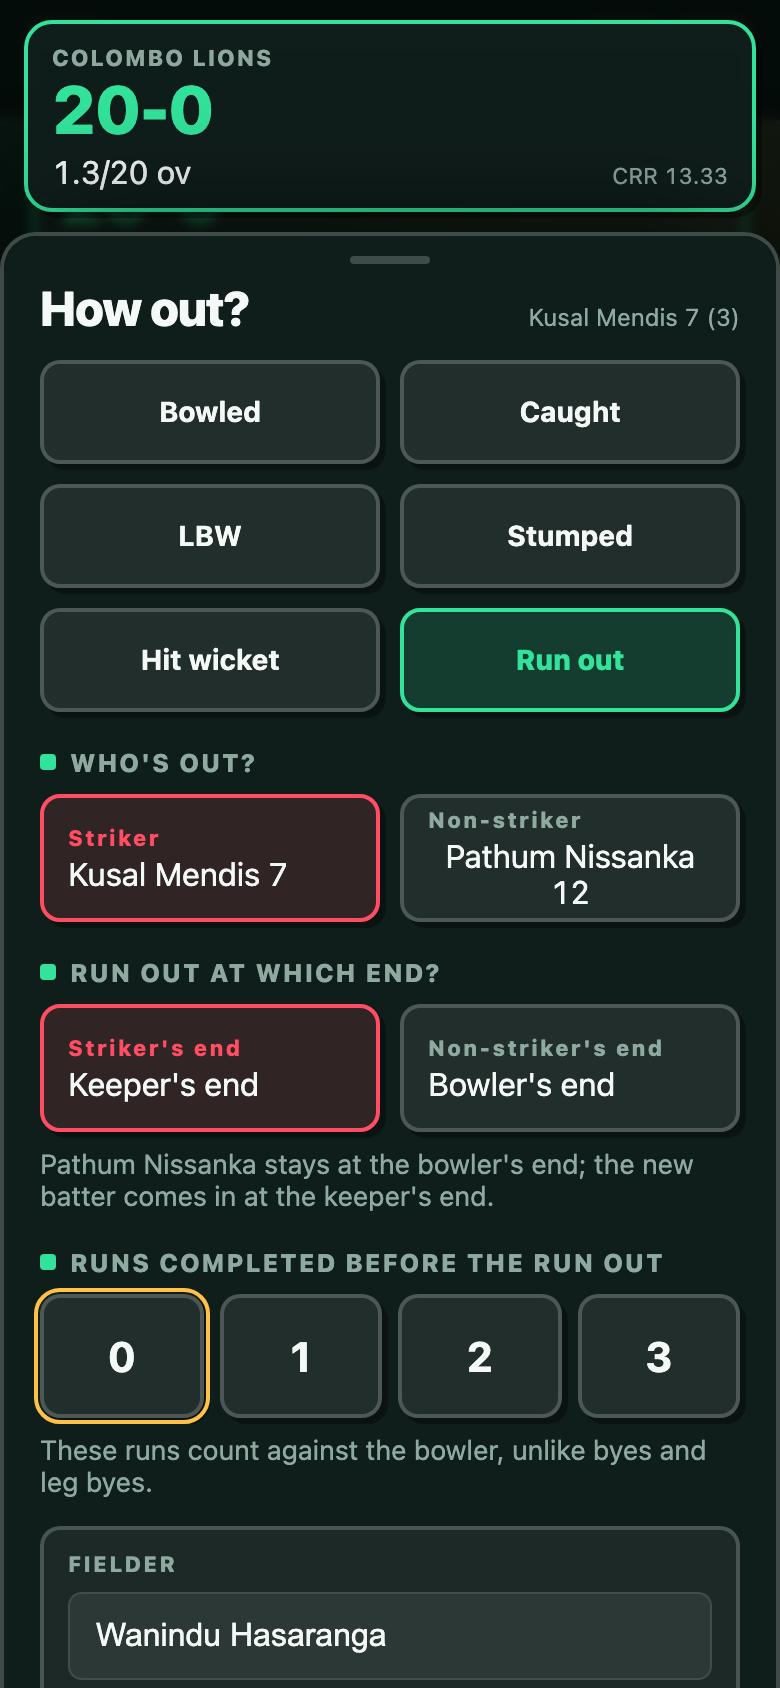
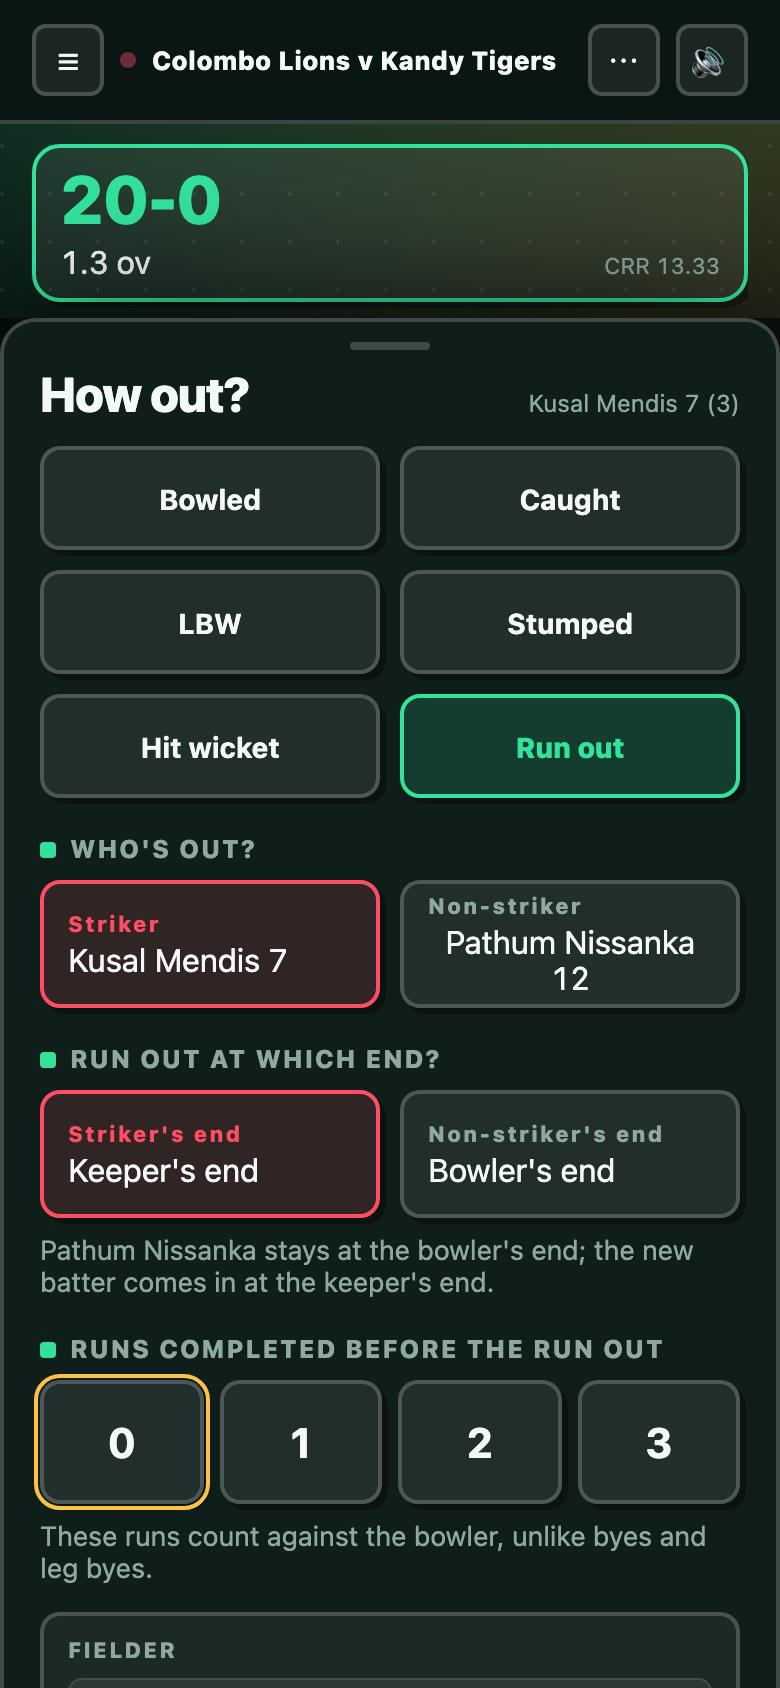
Show the live board's own score above the pick/wicket sheets
The scrim starts below the real score tiles (measured), with no blur, and
the sheet fits in the space below; the banner copy is only a fallback.
Tutorial text and screenshots updated.

diff --git a/tutorial.html b/tutorial.html
@@ -234,7 +234,7 @@
           <li><b>Caught</b> — add the fielder's name (credits the catch), then <span class="ui">Confirm wicket</span>.</li>
           <li><b>Run out</b> — pick <i>who's out</i> (striker or non-striker), <i>at which end</i>, and the <i>runs completed</i> before it, then confirm.</li>
         </ul>
-        <div class="tip"><b>Tip</b>The sheets show the current score in a banner at the top, so you never lose track.</div>
+        <div class="tip"><b>Tip</b>The scoreboard stays visible above these sheets, so you never lose track of the score.</div>
       </div>
       <div class="shots">
         <figure><a class="phone" href="tutorial/img/10-wicket-caught.jpg"><img src="tutorial/img/10-wicket-caught.jpg" alt="Caught with fielder" width="390" height="844" loading="lazy"></a><figcaption>Caught — with the fielder</figcaption></figure>
@@ -253,7 +253,7 @@
         <p>Need a moment? Tap <span class="ui">Pick later</span> — or <b>drag the sheet down</b> — to look at the scorecard or menu first. A <span class="ui">+ Pick batsman</span> chip waits in the empty slot, and tapping any run button brings the sheet back.</p>
       </div>
       <div class="shots">
-        <figure><a class="phone" href="tutorial/img/12-new-batsman.jpg"><img src="tutorial/img/12-new-batsman.jpg" alt="New batsman sheet" width="390" height="844" loading="lazy"></a><figcaption>New batter, with the score banner</figcaption></figure>
+        <figure><a class="phone" href="tutorial/img/12-new-batsman.jpg"><img src="tutorial/img/12-new-batsman.jpg" alt="New batsman sheet" width="390" height="844" loading="lazy"></a><figcaption>New batter, the scoreboard still showing</figcaption></figure>
         <figure><a class="phone" href="tutorial/img/14-new-bowler.jpg"><img src="tutorial/img/14-new-bowler.jpg" alt="New bowler sheet" width="390" height="844" loading="lazy"></a><figcaption>Next bowler</figcaption></figure>
       </div>
     </div>

diff --git a/css/app.css b/css/app.css
@@ -249,7 +249,7 @@ td.status{color:var(--muted);font-size:.78rem;}
 .modal{ overscroll-behavior:contain; transition:transform .22s cubic-bezier(.16,1,.3,1); }
 .modal.dragging{ transition:none; user-select:none; }
 .modal.drag-out{ transition:transform .16s ease-in; }
-.modal-backdrop[style*="--drag"]{ background:rgba(2,6,5,calc(.65 * (1 - var(--drag)))); }
+.modal-backdrop[style*="--drag"]:not(.board-through){ background:rgba(2,6,5,calc(.65 * (1 - var(--drag)))); }
 .modal::before{
   content:"";position:absolute;top:10px;left:50%;transform:translateX(-50%);
   width:40px;height:4px;border-radius:4px;background:var(--line-strong);
@@ -306,6 +306,14 @@ button.primary.danger-confirm{background:var(--wicket);color:var(--bg);border-co
    shrinks (and scrolls) when both don't fit. */
 .modal-backdrop.with-score{ flex-direction:column; align-items:center; justify-content:space-between; }
 .modal-backdrop.with-score > .modal{ flex-shrink:1; min-height:0; }
+/* Board shown through (showBoardAboveSheet in render.js): the real score
+   tiles stay visible above the sheet, so the banner copy isn't needed. */
+.modal-backdrop.with-score.board-through{
+  justify-content:flex-end; -webkit-backdrop-filter:none; backdrop-filter:none;
+  background:linear-gradient(to bottom, transparent 0, transparent var(--board-h), rgba(2,6,5,.65) var(--board-h));
+}
+.modal-backdrop.board-through > .sheet-score-banner{ display:none; }
+.modal-backdrop.board-through > .modal{ max-height:calc(100dvh - var(--board-h)); }
 .sheet-score-banner{ width:100%; max-width:520px; flex-shrink:0; padding:calc(10px + env(safe-area-inset-top)) 12px 10px; }
 .sheet-score-banner .score-bento{ margin:0; }
 .sheet-score-banner .score-tile{ animation:none; background:var(--panel-solid); }

diff --git a/js/ui/render.js b/js/ui/render.js
@@ -239,6 +239,27 @@ function render(){
     againConfirm.classList.add("no-anim"); againConfirm.scrollTop = confirmTop;
     againConfirm.closest(".modal-backdrop").classList.add("no-anim");
   }
+  showBoardAboveSheet();
   // The DOM was just replaced: put the tapped button's spinner back.
   if (activity.shown || document.querySelector(".is-loading")) applyActivity();
 }
+
+/* The pick/wicket sheets (.modal-backdrop.with-score) leave the live board's
+   own score tiles uncovered instead of repeating them in a banner: the scrim
+   starts just below #app's .score-bento (--board-h, measured -- the live
+   screen is one fixed viewport, so it doesn't move), there's no blur, the
+   sheet is capped to the space below it. The scrim still takes every tap
+   (a tap must never reach the run pad under a sheet). With no board behind
+   the sheet the banner (renderSheetScore) stays as the fallback. */
+function showBoardAboveSheet(){
+  const backdrop = document.querySelector("#modal-root .modal-backdrop.with-score");
+  if (!backdrop) return;
+  const board = document.querySelector("#app .score-bento");
+  const bottom = board ? board.getBoundingClientRect().bottom : 0;
+  if (!board || bottom <= 0 || bottom > window.innerHeight * 0.45){
+    backdrop.classList.remove("board-through"); backdrop.style.removeProperty("--board-h"); return;
+  }
+  backdrop.style.setProperty("--board-h", Math.ceil(bottom + 8) + "px");
+  backdrop.classList.add("board-through");
+}
+window.addEventListener("resize", () => showBoardAboveSheet());

diff --git a/CLAUDE.md b/CLAUDE.md
@@ -429,12 +429,15 @@ the full scorecard is a sheet over it (`renderLiveScorecardModal`,
 `ui.liveScorecard`, opened by the **Full scorecard** button), not an inline
 expansion. Its body is the shared tabbed scorecard (`renderScorecard`, see
 "Scorecards" below). It closes with ✕/Close/Back or when the
-innings ends. The pick and wicket sheets cover the board, so each shows the
-live card's score tiles in a banner at the top of the scrim, above the sheet
-(`renderSheetScore` → `renderScoreBento(match, inn, teamLabel)`, the same
-function the live card uses, plus the batting team; `.modal-backdrop.with-score`
-stacks banner and sheet and lets the sheet shrink and scroll); the opening
-sheet shows it only in the chase. `.screen.live` still scrolls
+innings ends. The pick and wicket sheets (`.modal-backdrop.with-score`) keep
+the **live board's own score tiles visible** above the sheet:
+`showBoardAboveSheet()` (render.js, after every render and on resize)
+measures `#app .score-bento`, sets `--board-h`, and `.board-through` makes
+the scrim start below it (no blur, sheet capped to the space left, scrolls
+inside). The scrim still takes every tap, so nothing under a sheet can be
+hit. Only when there's no board to show does the fallback banner
+(`renderSheetScore` → `renderScoreBento(match, inn, teamLabel)`) appear; the
+opening sheet has it only in the chase. `.screen.live` still scrolls
 internally as a safety net. **Full scorecard** and **End innings**
 (`renderEndInningsButton(…, inline)`) are equal-width buttons in
 `.live-links` under the Wicket bar. The top bar is `position:relative` in live mode — `sticky`
